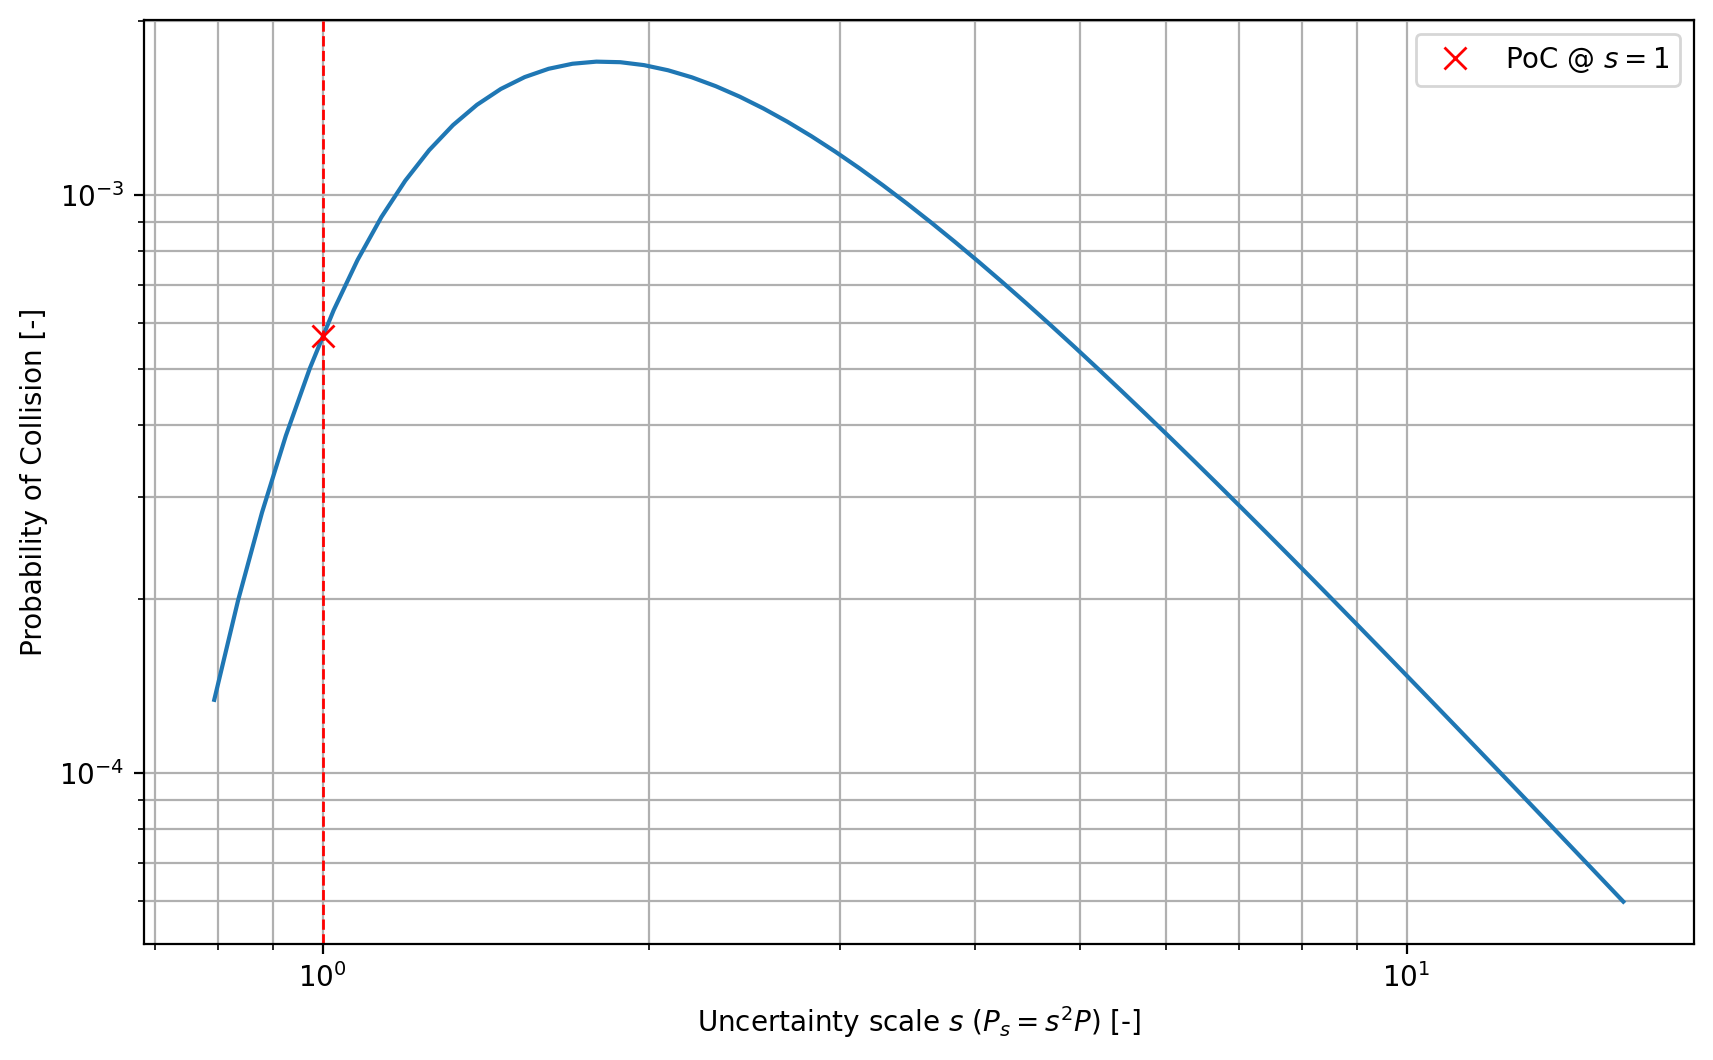
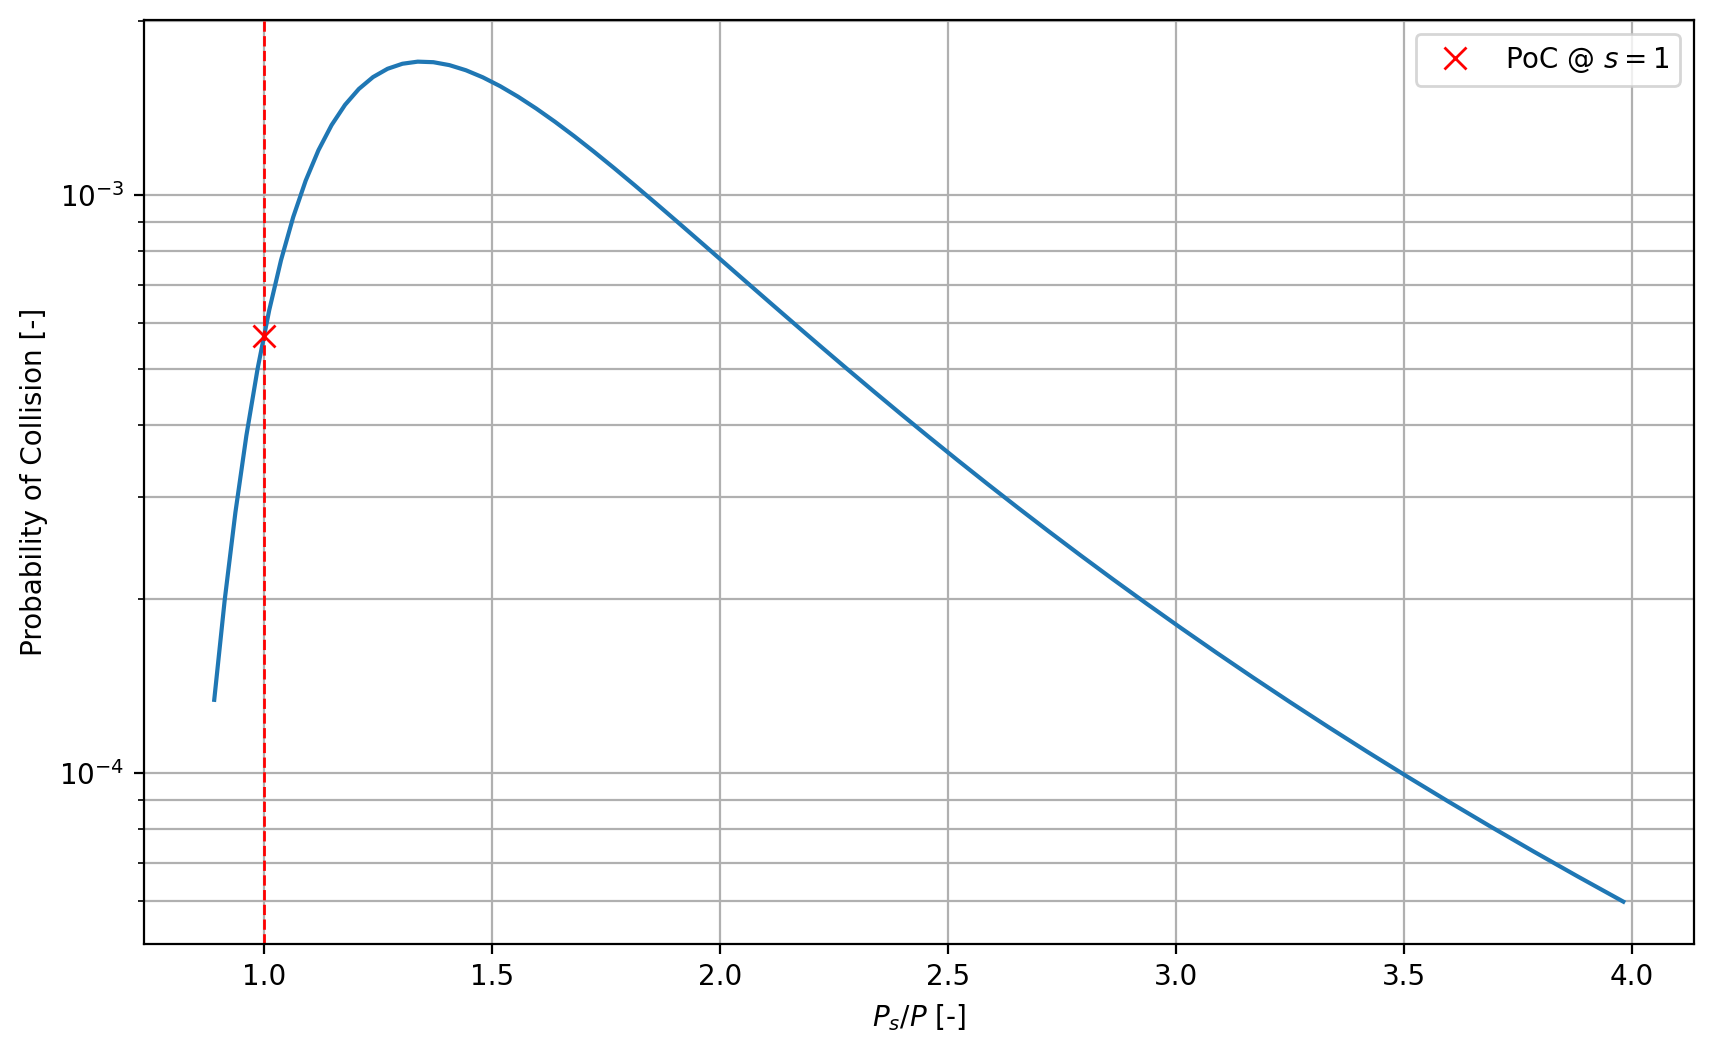
Updated probability dilution plot

diff --git a/examples/m3_collision_probability.py b/examples/m3_collision_probability.py
@@ -116,20 +116,21 @@ ax.set_aspect("equal", adjustable='box')
 
 """ Plot Probability Dilution """ 
 fig, ax = plt.subplots(figsize = (10, 6))
-ax.loglog(uncertainty_scales, poc_changing_P_enc)
-ax.set_xlabel(r"Uncertainty scale $s$ ($P_s=s^2P$) [-]")
+ax.semilogy(np.sqrt(uncertainty_scales), poc_changing_P_enc)
+ax.set_xlabel(r"$P_s/P$ [-]")
 ax.set_ylabel("Probability of Collision [-]")
 ax.axvline(1, linestyle='--', color='red', linewidth=1.0)
 ax.plot(1, poc_f, 'rx', markersize=8, linewidth=2.0, label=r'PoC @ $s=1$')
 ax.legend()
 ax.grid(True, which='both')
 
-
+'''
 plt.savefig(
     "docs/images/probability-dilution.png",
     dpi=200,
     bbox_inches="tight",
 )
+'''
 '''
 plt.savefig(
     "docs/images/probability-dilution.png",
